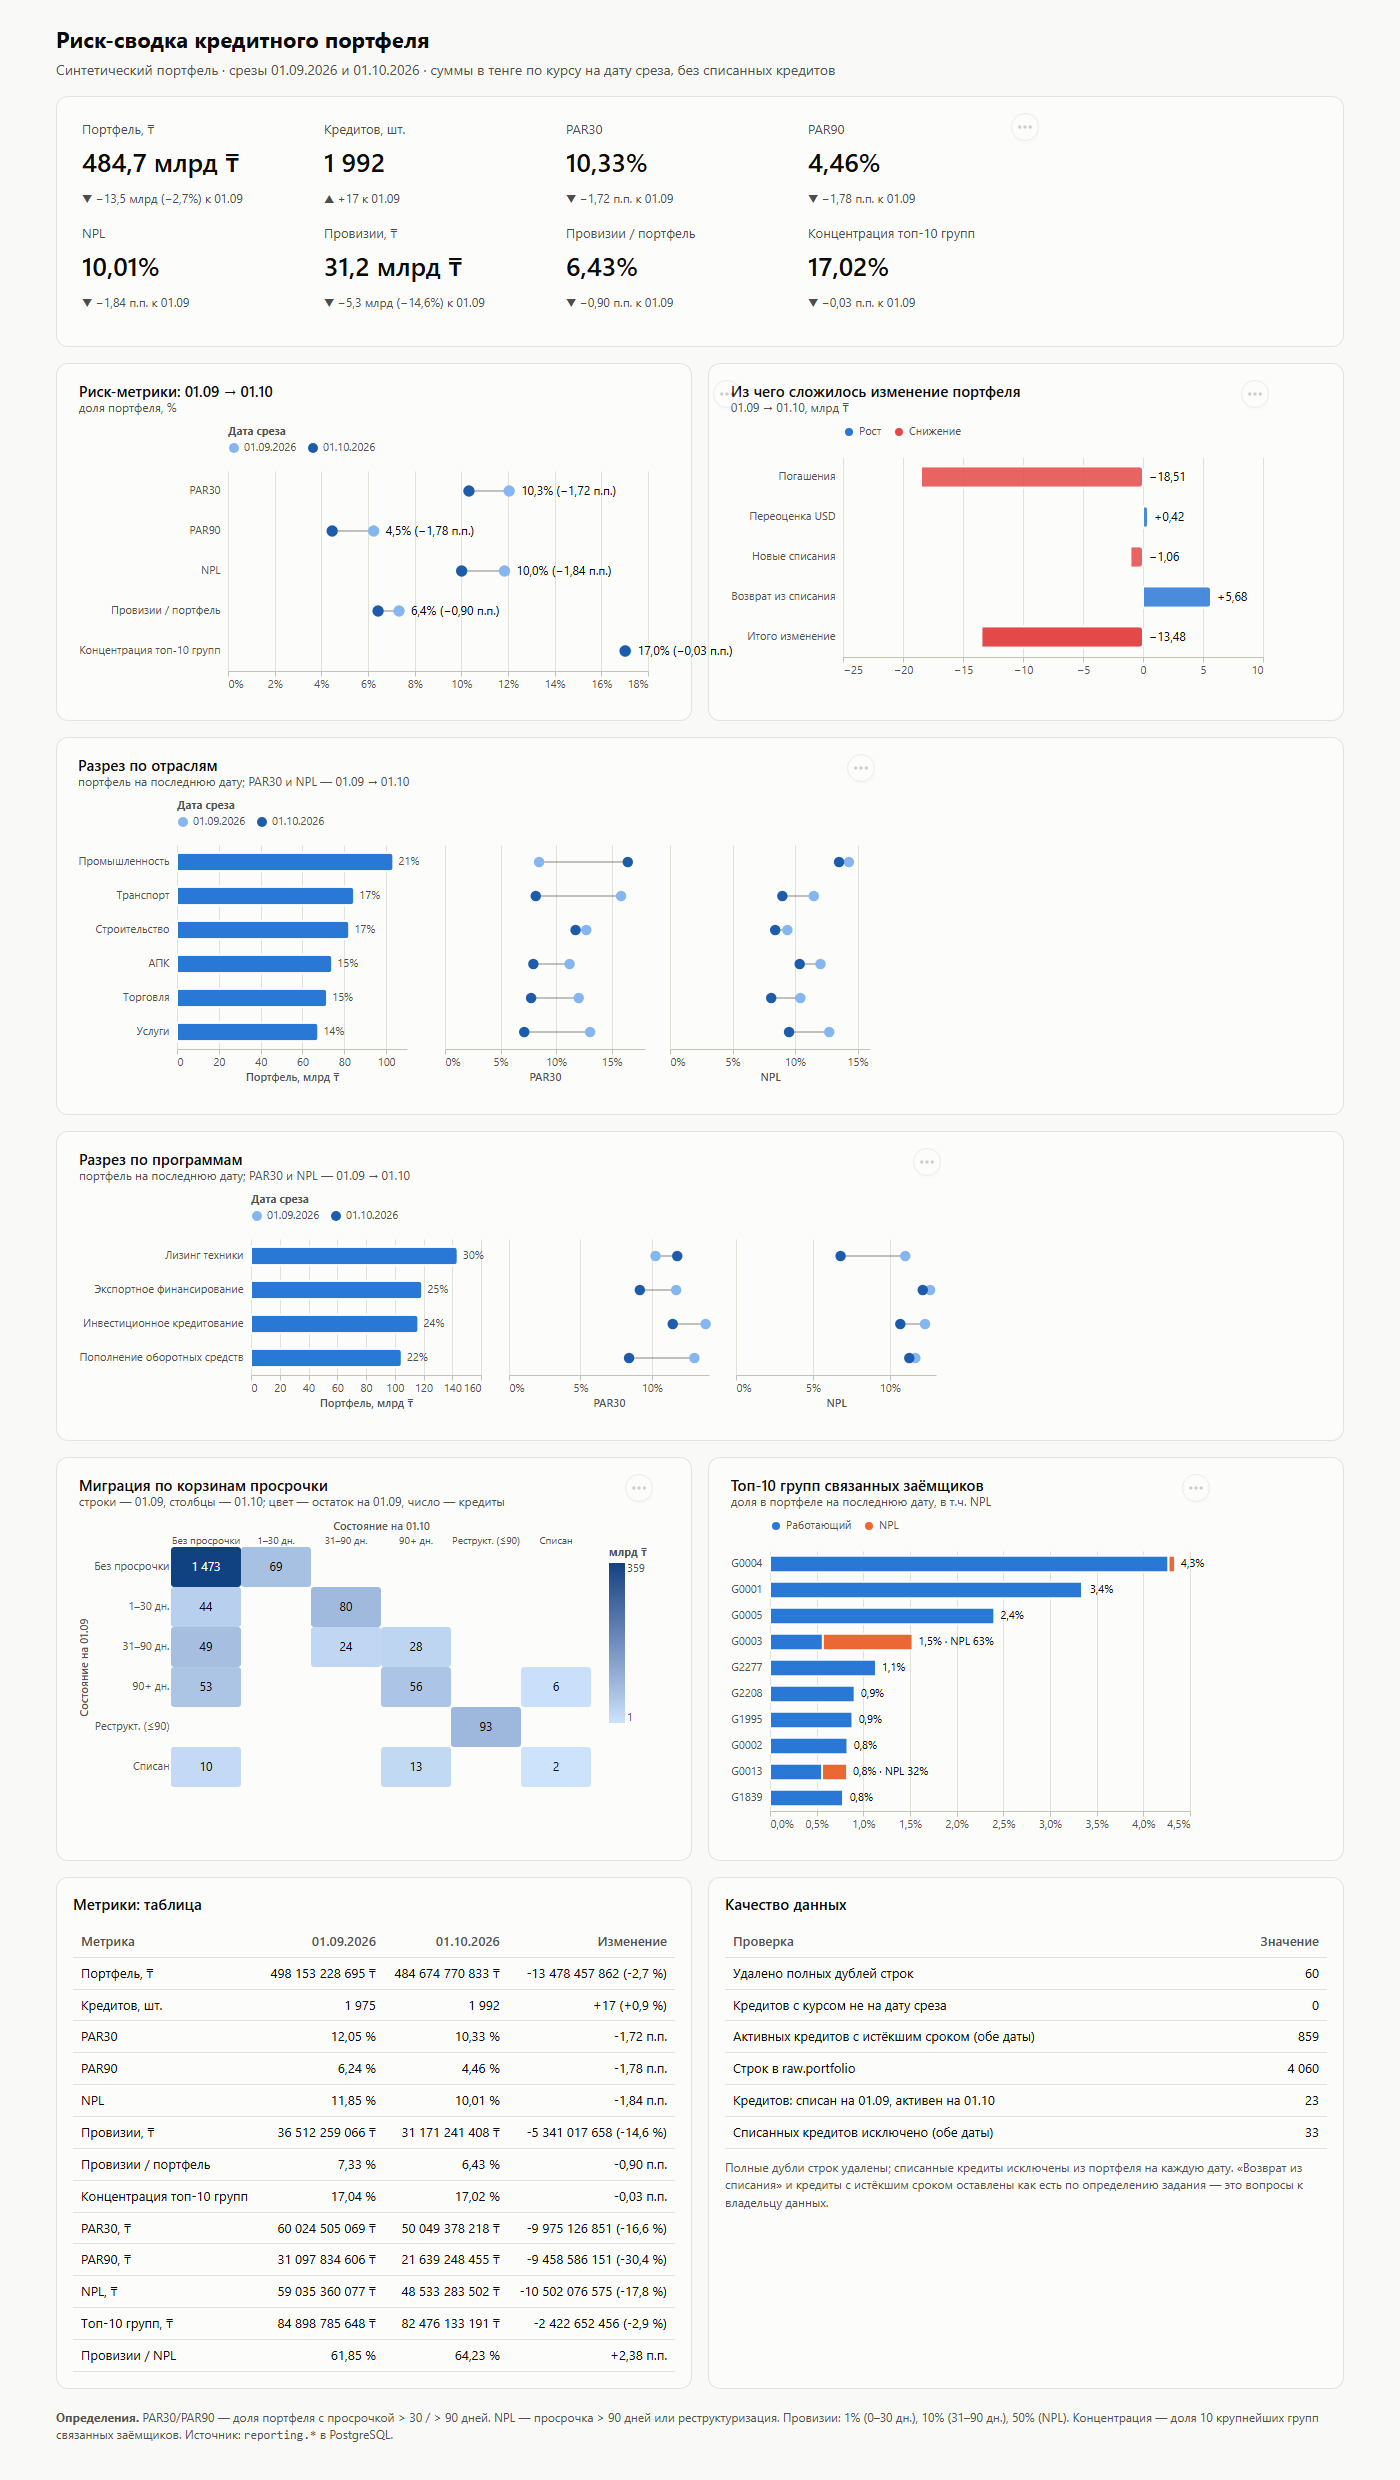
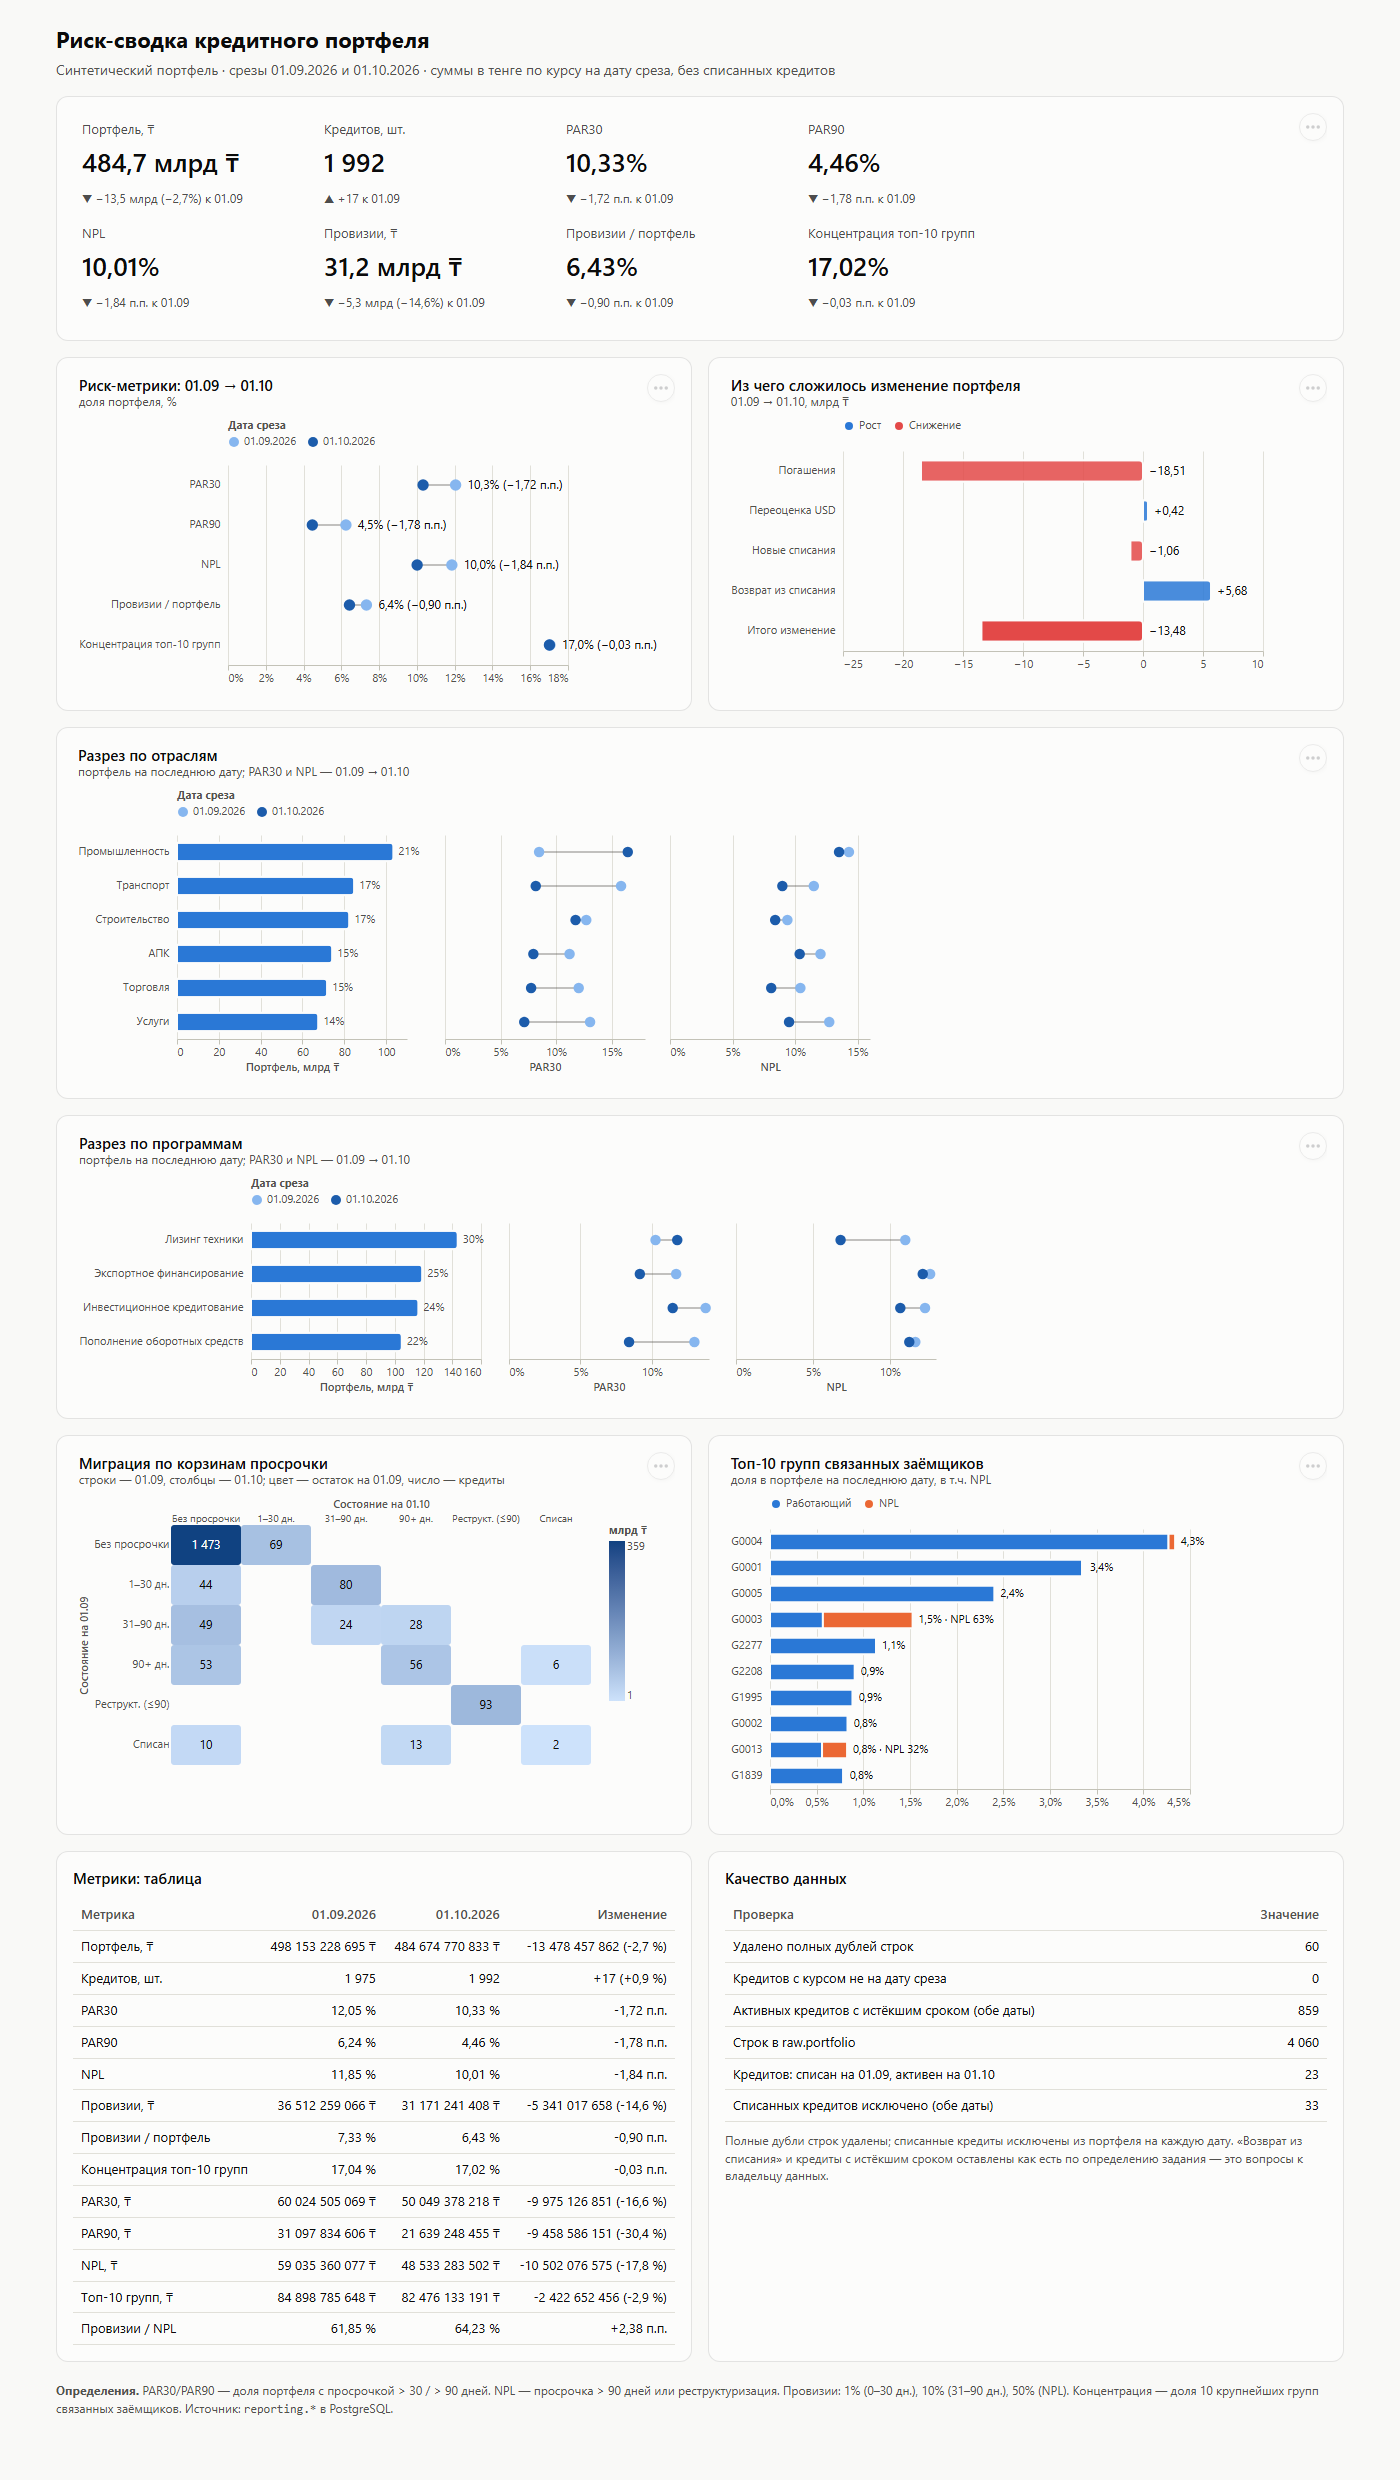
Fix issues found in full re-verification
- scripts/*.sh: set executable bit (100755) so ./scripts/build.sh works on Linux/macOS
- dashboard: charts scroll inside their card on phones instead of widening the page
  (vega-embed sets display:inline-block on the container); narrower ratios chart
- README: fix rounding (18,6 bn, not 18,7), document 8 negative tests and clean-clone check
- AI_NOTES / CLAUDE.md: record the new findings and extend definition of done

diff --git a/dashboard/styles.css b/dashboard/styles.css
@@ -57,7 +57,9 @@ body {
   min-width: 0;
 }
 .card.full { grid-column: 1 / -1; }
-.chart { overflow-x: auto; }
+/* vega-embed puts its own .vega-embed {display:inline-block} on this element; without the override
+   a wide chart stretches the whole page on phones instead of scrolling inside its card. */
+.chart, .chart.vega-embed { display: block; max-width: 100%; overflow-x: auto; }
 h2 { font-size: 15px; margin: 0 0 10px; font-weight: 600; }
 .table-wrap { overflow-x: auto; }
 table { border-collapse: collapse; width: 100%; font-size: 13px; }

diff --git a/docs/AI_NOTES.md b/docs/AI_NOTES.md
@@ -15,6 +15,18 @@
 | 7 | Валидатор семантической модели при битой колонке падал трейсбеком вместо понятного отчёта | Негативный тест (подменил колонку и тип меры в YAML) | Сначала структурные проверки с отчётом, затем сверка цифр |
 | 8 | Первая версия палитры ставила красный и оранжевый в один график | Валидатор CVD: ΔE 5,6 (дейтеранопия) — FAIL | Красный/оранжевый не совмещаются; оранжевый — только для NPL в топ-10 |
 
+### Найдено при повторной полной проверке (чистый клон + новая БД)
+
+| # | Ошибка ИИ | Как обнаружено | Исправление |
+|---|-----------|----------------|-------------|
+| 9 | Скрипты закоммичены без права на запуск (`100644`): на Linux/macOS `./scripts/build.sh` из README дал бы «Permission denied». На Windows этого не видно | `git ls-files -s scripts/` | `git update-index --chmod=+x` → `100755` |
+| 10 | На телефоне (375px) страница растягивалась до 999px: vega-embed вешает `display:inline-block` на сам контейнер, и `overflow-x:auto` не работал | Замер `scrollWidth` элементов в мобильном вьюпорте | `.chart.vega-embed {display:block; max-width:100%}` — графики прокручиваются внутри карточки; график метрик сужен, чтобы подпись не обрезалась на десктопе |
+| 11 | В README «69 кредитов (18,7 млрд ₸)»: двойное округление 18,649 → 18,65 → 18,7 | Автоматическая сверка всех 23 чисел README с запросами к БД | Исправлено на 18,6 |
+
+Тест «мусор в сумме» сначала показал «не пойман». Разбор: на Windows кириллица в аргументе `psql -c` ушла в cp1251,
+и порча данных просто не применилась (`invalid byte sequence`). С ASCII-мусором сборка падает, как и должна.
+Вывод: сначала убедиться, что негативный тест действительно что-то испортил.
+
 ## Решения, которые ИИ сам принимать не должен был (вынесены мне)
 - **Возврат из списания** (23 кредита списаны 01.09 и активны 01.10). По буквальному определению включены в портфель на 01.10;
   влияние показано отдельно (+5,7 млрд ₸ в портфель; без них NPL на 01.10 = 9,51% вместо 10,01%).

diff --git a/CLAUDE.md b/CLAUDE.md
@@ -38,8 +38,10 @@ python -m http.server 8000 --bind 127.0.0.1 --directory dashboard   # дашбо
 ## Definition of done
 1. `build.sh` проходит дважды подряд, выгрузки побайтово совпадают (идемпотентность).
 2. `verify.sh`: `RECONCILIATION: OK` и `SEMANTIC MODEL: OK`.
-3. Дашборд открыт и просмотрен глазами (скриншот), в консоли нет ошибок.
-4. Цифры в README совпадают с `checks/sql_metrics.csv`.
+3. Дашборд открыт и просмотрен глазами (скриншот) на 1400px и 375px: в консоли нет ошибок и предупреждений Vega-Lite,
+   страница не шире экрана, подписи не обрезаны.
+4. Цифры в README совпадают с базой (сверять запросом, не на глаз; округлять один раз от точного значения).
+5. Сборка проходит из чистого `git clone` на пустой БД; `scripts/*.sh` в git с режимом `100755`.
 
 ## Безопасность
 - Пароли только в `.env` (в `.gitignore`), в репозитории — `.env.example`. Не печатать секреты в вывод.
